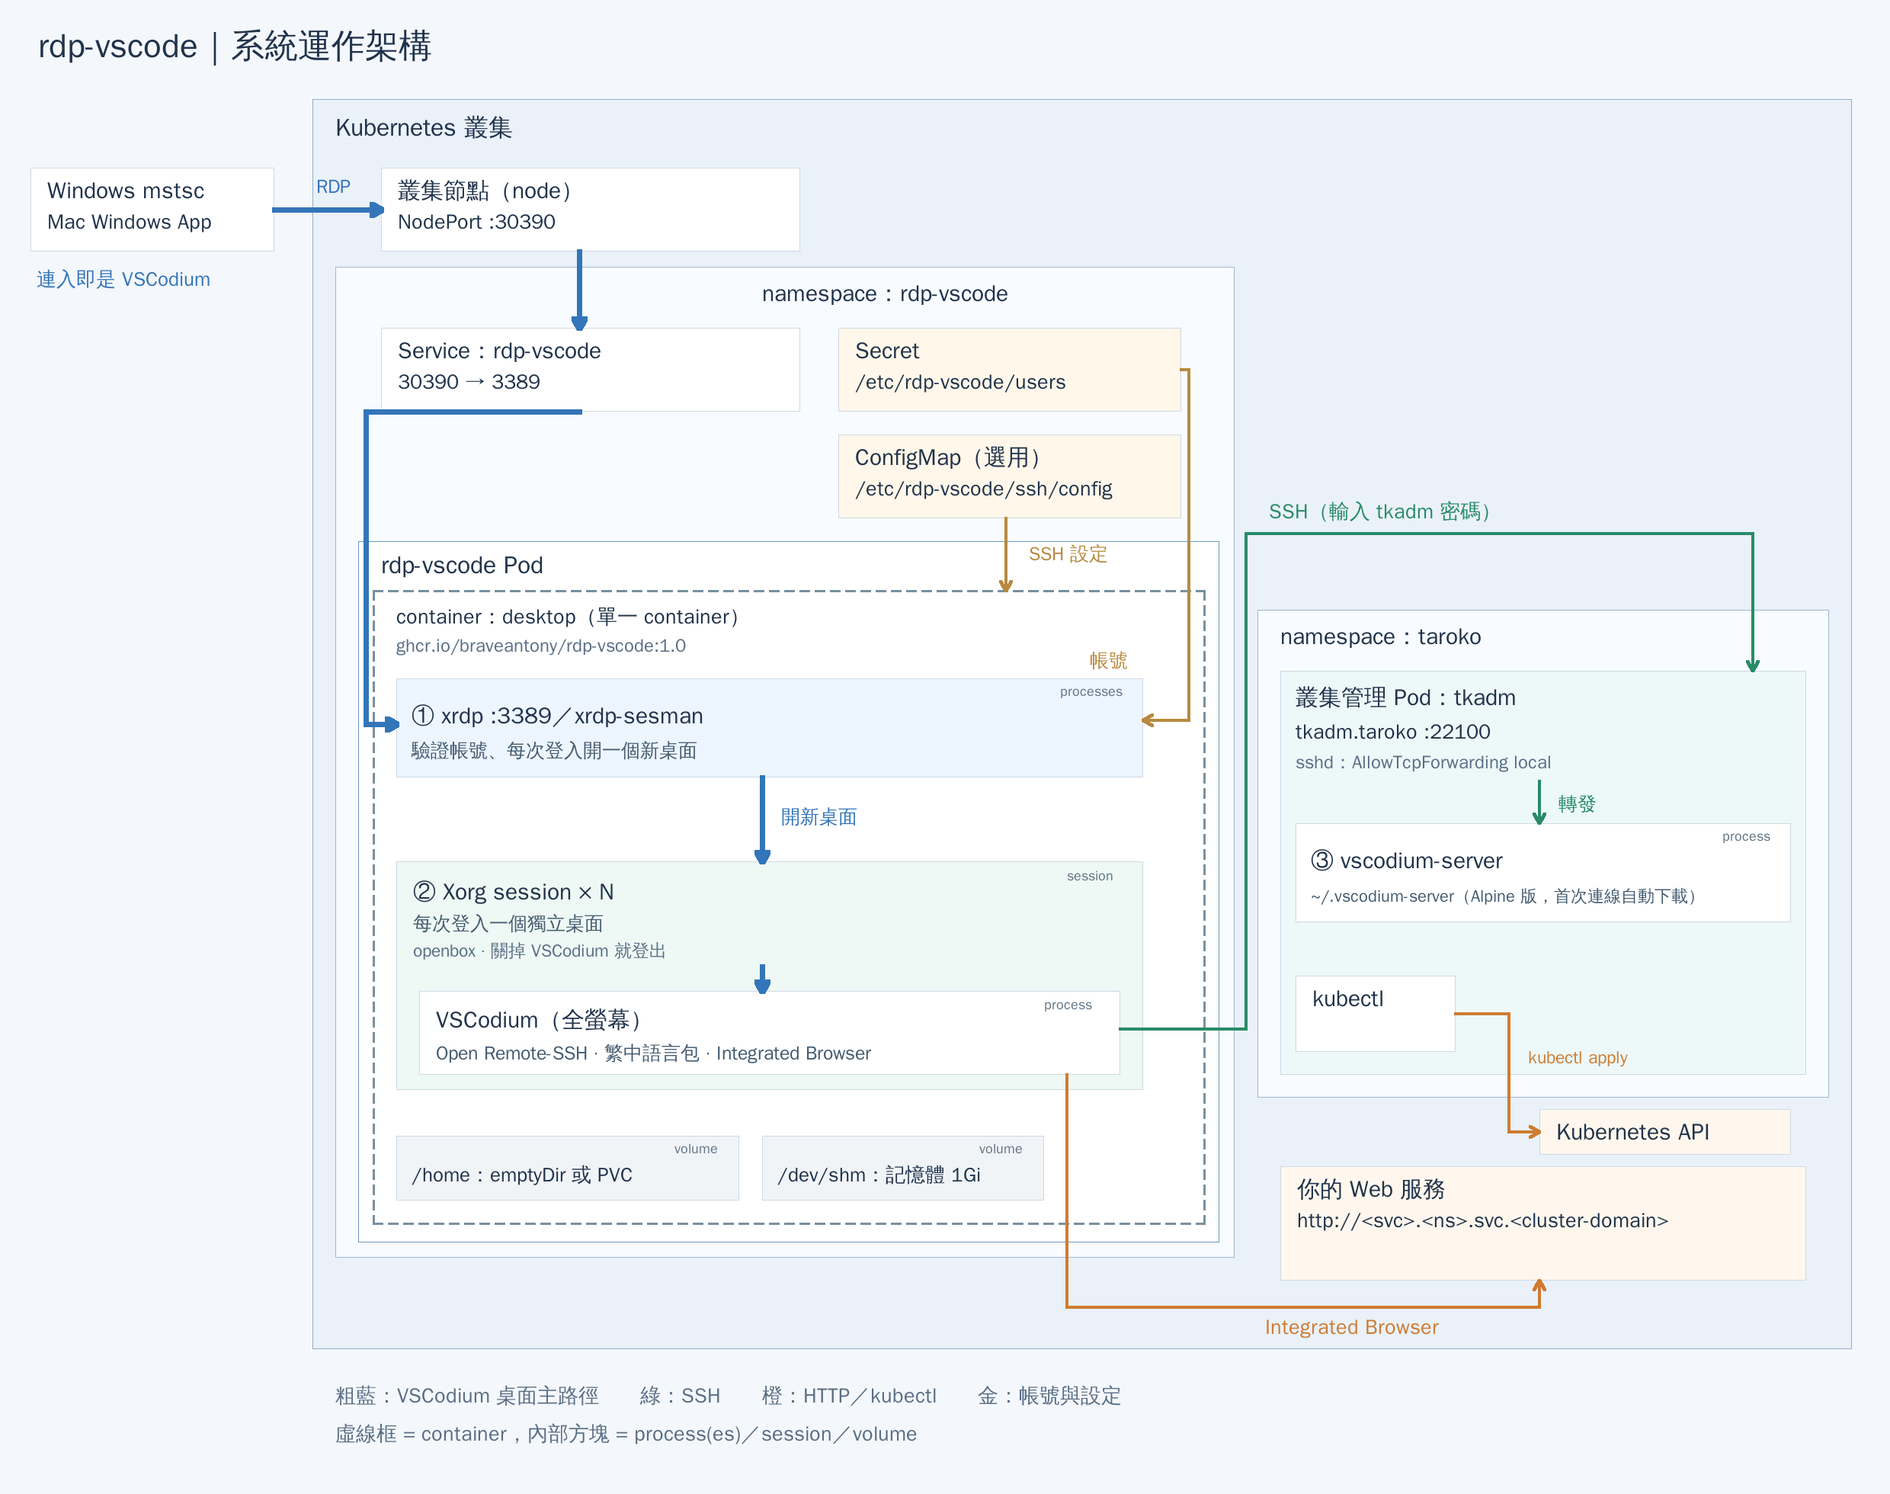
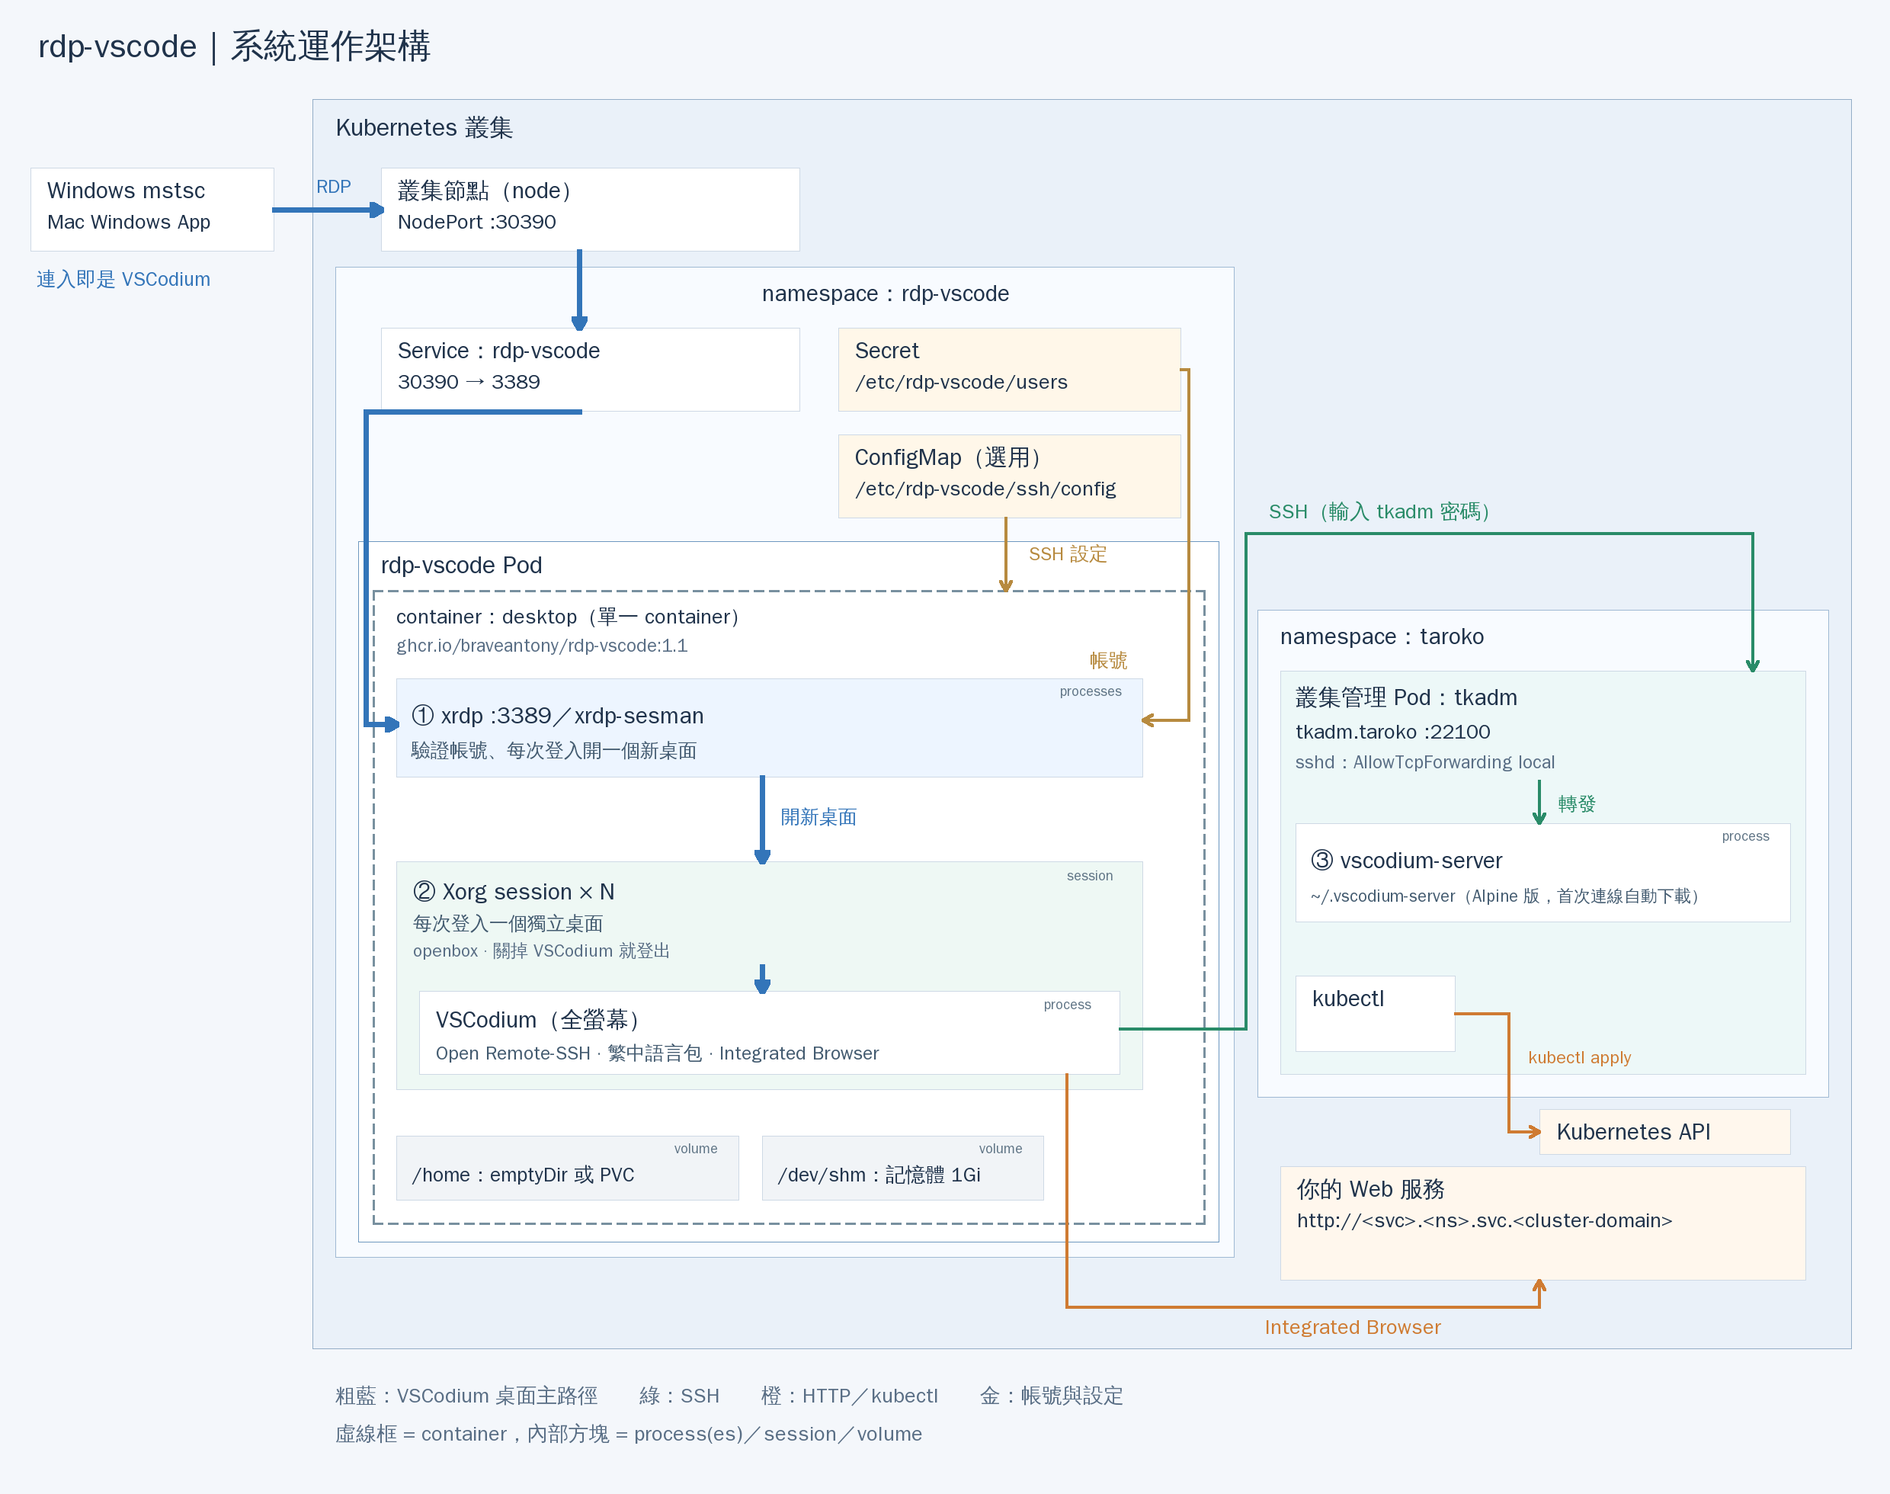
release: 1.1
Claude-Session: https://claude.ai/code/session_01RNGroMzGBHb3J8CJpfyLLi

diff --git a/docs/architecture/render.py b/docs/architecture/render.py
@@ -108,7 +108,7 @@ rect(470,710,1130,920,'#ffffff','#6e98bf')
 text(500,752,'rdp-vscode Pod',32)
 dashed_container(490,775,1090,830)
 text(520,818,'container：desktop（單一 container）',27)
-text(520,855,'ghcr.io/braveantony/rdp-vscode:1.0',24,'#596e85')
+text(520,855,'ghcr.io/braveantony/rdp-vscode:1.1',24,'#596e85')
 rect(1650,800,750,640,'#f8fbff','#9fb9d3')
 text(1680,845,'namespace：taroko',30)
 

diff --git a/docs/build-image.md b/docs/build-image.md
@@ -1,6 +1,6 @@
 # rdp-vscode 映像檔建置手冊
 
-本文件從原始碼做出 `ghcr.io/braveantony/rdp-vscode:1.0` 和 `:1.0-firefox` 兩個 tag，跑過測試，載入 tk8s 的節點並部署，最後推到 ghcr.io。**由上到下依序複製每個指令區塊貼到終端機執行。** 需要在 repo 目錄執行的區塊，開頭都會 `cd ~/rdp-vscode`，中途換終端機也能接著貼。
+本文件從原始碼做出 `ghcr.io/braveantony/rdp-vscode:1.1` 和 `:1.1-firefox` 兩個 tag，跑過測試，載入 tk8s 的節點並部署，最後推到 ghcr.io。**由上到下依序複製每個指令區塊貼到終端機執行。** 需要在 repo 目錄執行的區塊，開頭都會 `cd ~/rdp-vscode`，中途換終端機也能接著貼。
 
 ## 這個映像檔做什麼
 
@@ -61,8 +61,8 @@ rdp-vscode/
 
 ```bash
 cd ~/rdp-vscode
-podman build -t ghcr.io/braveantony/rdp-vscode:1.0 images/rdp-vscode
-podman build --build-arg WITH_FIREFOX=1 -t ghcr.io/braveantony/rdp-vscode:1.0-firefox images/rdp-vscode
+podman build -t ghcr.io/braveantony/rdp-vscode:1.1 images/rdp-vscode
+podman build --build-arg WITH_FIREFOX=1 -t ghcr.io/braveantony/rdp-vscode:1.1-firefox images/rdp-vscode
 podman image ls ghcr.io/braveantony/rdp-vscode
 ```
 
@@ -77,11 +77,11 @@ cd ~/rdp-vscode
 bash test/unit/ssh-config.test.sh
 bash test/unit/font-config.test.sh
 bash test/unit/install.test.sh
-bash test/unit/startwm.test.sh ghcr.io/braveantony/rdp-vscode:1.0
-bash test/image/smoke.test.sh ghcr.io/braveantony/rdp-vscode:1.0
-bash test/image/smoke.test.sh ghcr.io/braveantony/rdp-vscode:1.0-firefox --firefox
-bash test/unit/accounts.test.sh ghcr.io/braveantony/rdp-vscode:1.0
-bash test/unit/languagepacks.test.sh ghcr.io/braveantony/rdp-vscode:1.0
+bash test/unit/startwm.test.sh ghcr.io/braveantony/rdp-vscode:1.1
+bash test/image/smoke.test.sh ghcr.io/braveantony/rdp-vscode:1.1
+bash test/image/smoke.test.sh ghcr.io/braveantony/rdp-vscode:1.1-firefox --firefox
+bash test/unit/accounts.test.sh ghcr.io/braveantony/rdp-vscode:1.1
+bash test/unit/languagepacks.test.sh ghcr.io/braveantony/rdp-vscode:1.1
 ```
 
 每個測試最後一行都應該是 `N passed, 0 failed`。
@@ -90,7 +90,7 @@ bash test/unit/languagepacks.test.sh ghcr.io/braveantony/rdp-vscode:1.0
 
 ```bash
 cd ~/rdp-vscode
-bash test/image/session.test.sh ghcr.io/braveantony/rdp-vscode:1.0
+bash test/image/session.test.sh ghcr.io/braveantony/rdp-vscode:1.1
 bash test/deploy/render.test.sh
 ```
 
@@ -102,7 +102,7 @@ tk8s 的節點是 podman container，映像檔要直接載入節點的 container
 
 ```bash
 cd ~/rdp-vscode
-podman save -o /tmp/rdp-vscode.tar ghcr.io/braveantony/rdp-vscode:1.0
+podman save -o /tmp/rdp-vscode.tar ghcr.io/braveantony/rdp-vscode:1.1
 for n in tk8s-control-plane-1 tk8s-worker-1 tk8s-worker-2; do
   sudo podman --root /var/lib/containers/storage/volumes/$n-var/_data/lib/containers/storage \
     --runroot /run/rdp-vscode-load-$n --storage-driver overlay load -i /tmp/rdp-vscode.tar
@@ -110,7 +110,7 @@ done
 rm -f /tmp/rdp-vscode.tar
 ```
 
-要用 `-firefox` 版時，把上面的 `:1.0` 換成 `:1.0-firefox`，並在 overlay 的 `kustomization.yaml` 加上 `images:` 區塊換成 `newTag: 1.0-firefox`（見[安裝手冊](install.md#其他設定)）。
+要用 `-firefox` 版時，把上面的 `:1.1` 換成 `:1.1-firefox`，並在 overlay 的 `kustomization.yaml` 加上 `images:` 區塊換成 `newTag: 1.1-firefox`（見[安裝手冊](install.md#其他設定)）。
 
 ## Step 5：tk8s 的前置設定
 
@@ -162,8 +162,8 @@ kubectl -n kube-system get configmap coredns -o jsonpath='{.data.Corefile}' | gr
 
 ```bash
 podman login ghcr.io -u braveantony      # 密碼貼上 PAT
-podman push ghcr.io/braveantony/rdp-vscode:1.0
-podman push ghcr.io/braveantony/rdp-vscode:1.0-firefox
+podman push ghcr.io/braveantony/rdp-vscode:1.1
+podman push ghcr.io/braveantony/rdp-vscode:1.1-firefox
 ```
 
 Dockerfile 裡的 `org.opencontainers.image.source` label 會讓 ghcr.io 自動把 package 連到 repo。第一次推送後，到 GitHub 的 **Packages → rdp-vscode → Package settings → Change visibility**，設為 Public，別人才拉得到。
@@ -210,7 +210,7 @@ ARG ZH_HANT_VERSION=1.131.0
    curl -fsSL https://open-vsx.org/api/MS-CEINTL/vscode-language-pack-zh-hant | python3 -c 'import json,sys; d=json.load(sys.stdin); print(d["version"], d["engines"])'
    ```
 
-3. 修改 `images/rdp-vscode/Dockerfile` 的 `ARG`，從 Step 2 重做一次，並跑完 Step 3 的所有測試和完整驗收。新 tag 用新的版本號：把 Step 2～4、7 指令裡的 `:1.0` 和 `:1.0-firefox` 分別換成例如 `:1.1` 和 `:1.1-firefox`，並同步修改 `VERSION` 和 `manifests/base/deployment.yaml` 的 `image:`。注意：Step 3 測的是指定的發佈 tag；完整驗收則是從目前的原始碼另外建置 `localhost/rdp-vscode:dev` 來測。
+3. 修改 `images/rdp-vscode/Dockerfile` 的 `ARG`，從 Step 2 重做一次，並跑完 Step 3 的所有測試和完整驗收。新 tag 用新的版本號：把 Step 2～4、7 指令裡的 `:1.1` 和 `:1.1-firefox` 分別換成例如 `:1.2` 和 `:1.2-firefox`，並同步修改 `VERSION` 和 `manifests/base/deployment.yaml` 的 `image:`。注意：Step 3 測的是指定的發佈 tag；完整驗收則是從目前的原始碼另外建置 `localhost/rdp-vscode:dev` 來測。
 
 使用者的 home 裡如果有舊版的預裝擴充功能，下次登入時會自動換成映像檔裡的版本；自己裝的擴充功能不會被動到。
 

diff --git a/docs/install.md b/docs/install.md
@@ -1,6 +1,6 @@
 # rdp-vscode 安裝手冊
 
-適用映像檔：`ghcr.io/braveantony/rdp-vscode:1.0`。`-firefox` 版的安裝方式相同，只有換映像檔的方法依安裝方式而不同，見各節。先決條件見 [README](../README.md#先決條件)。
+適用映像檔：`ghcr.io/braveantony/rdp-vscode:1.1`。`-firefox` 版的安裝方式相同，只有換映像檔的方法依安裝方式而不同，見各節。先決條件見 [README](../README.md#先決條件)。
 
 ## 選擇安裝方式
 
@@ -28,14 +28,14 @@ curl -fsSL https://raw.githubusercontent.com/braveantony/rdp-vscode/main/install
 平常不需要設定任何變數。要改裝 `-firefox` 版時，用 `RDP_VSCODE_IMAGE`：
 
 ```bash
-curl -fsSL https://raw.githubusercontent.com/braveantony/rdp-vscode/main/install.sh | RDP_VSCODE_IMAGE=ghcr.io/braveantony/rdp-vscode:1.0-firefox bash
+curl -fsSL https://raw.githubusercontent.com/braveantony/rdp-vscode/main/install.sh | RDP_VSCODE_IMAGE=ghcr.io/braveantony/rdp-vscode:1.1-firefox bash
 ```
 
 `install.sh` 讀取的變數：
 
 | 變數 | 說明 |
 |---|---|
-| `RDP_VSCODE_IMAGE` | 改用其他映像檔，例如 `ghcr.io/braveantony/rdp-vscode:1.0-firefox` 或私有 registry 上的映像檔 |
+| `RDP_VSCODE_IMAGE` | 改用其他映像檔，例如 `ghcr.io/braveantony/rdp-vscode:1.1-firefox` 或私有 registry 上的映像檔 |
 | `RDP_VSCODE_REF` | 下載 `manifests/` 時用的 branch 或 tag，決定部署哪個版本的設定和映像檔；預設 `main`。主要給測試用 |
 | `RDP_VSCODE_RAW` | `manifests/` 的下載位置，可以是網址或 `file://` 路徑；預設是 GitHub 上 `RDP_VSCODE_REF` 指定的版本，設定後 `RDP_VSCODE_REF` 就沒有作用。主要給測試用 |
 
@@ -93,7 +93,7 @@ StorageClass 是決定 PVC 用哪種儲存的叢集設定。PVC 沒有指定 `st
   ```yaml
   images:
   - name: ghcr.io/braveantony/rdp-vscode
-    newTag: 1.0-firefox
+    newTag: 1.1-firefox
   ```
 
 - **改環境變數**：修改 `manifests/base/deployment.yaml` 的 `env`，再執行一次 `kubectl apply -k manifests/stateless`（或 `manifests/stateful`）。變數說明見 [README 的「環境變數」](../README.md#環境變數)。
@@ -112,7 +112,7 @@ StorageClass 是決定 PVC 用哪種儲存的叢集設定。PVC 沒有指定 `st
 ```bash
 podman run -d --name rdp-vscode -p 13390:3389 --shm-size 1g \
   -e RDP_PASSWORD=bigred -e SSH_HOST=<SSH 主機> -e SSH_PORT=22 -e SSH_USER=<SSH 帳號> \
-  ghcr.io/braveantony/rdp-vscode:1.0
+  ghcr.io/braveantony/rdp-vscode:1.1
 ```
 
 用遠端桌面連到 `<主機 IP>:13390`。`<主機 IP>` 是執行 podman 的那台主機的 IP；在同一台主機上連可以用 `localhost:13390`。帳號 `bigred`、密碼 `bigred`。
@@ -123,7 +123,7 @@ podman run -d --name rdp-vscode -p 13390:3389 --shm-size 1g \
 - **多個帳號**：用帳號清單取代 `RDP_PASSWORD`。拿掉 `-e RDP_PASSWORD=bigred`，改在映像檔名稱之前加上 `-v ./users.txt:/etc/rdp-vscode/users:ro,Z`（`ro` 表示唯讀，`Z` 是給 SELinux 系統用的標記，沒有 SELinux 也不影響）。`users.txt` 的格式和[帳號清單](#帳號清單)相同。
 - **不自動連線**：把 `-e SSH_HOST=…`、`-e SSH_PORT=…`、`-e SSH_USER=…` 都換成 `-e SSH_HOST_ALIAS=`（空字串），登入後只開啟 container 裡的 VSCodium，不會連到任何 SSH 主機。
 - **SSH 主機上的家目錄不是 `/home/<SSH 帳號>` 時**（例如 root），再加上 `-e SSH_REMOTE_FOLDER=<路徑>`。
-- **改裝 `-firefox` 版**：把最後的 `:1.0` 換成 `:1.0-firefox`。
+- **改裝 `-firefox` 版**：把最後的 `:1.1` 換成 `:1.1-firefox`。
 - 檔案和設定都在 container 裡，刪掉 container（`podman rm -f rdp-vscode`）就會消失。
 - 其他環境變數見 [README 的「環境變數」](../README.md#環境變數)。
 

diff --git a/docs/user-guide.md b/docs/user-guide.md
@@ -1,6 +1,6 @@
 # VSCodium 遠端桌面使用手冊
 
-適用映像檔：`ghcr.io/braveantony/rdp-vscode:1.0`（`:1.0-firefox` 另見第 5 節）。安裝方式見 [README](../README.md#快速開始)。
+適用映像檔：`ghcr.io/braveantony/rdp-vscode:1.1`（`:1.1-firefox` 另見第 5 節）。安裝方式見 [README](../README.md#快速開始)。
 
 用 Windows 內建的「遠端桌面連線」登入後，畫面上只有一個全螢幕的 VSCodium。它會自動以 SSH 連到叢集的管理 Pod `tkadm`，你在 VSCodium 裡開的檔案和終端機都在 `tkadm` 上，可以直接用 `kubectl` 管理叢集。
 
@@ -45,7 +45,7 @@
 
 網址可以只寫 `http://<service 名稱>.<namespace>`；完整網域名稱（FQDN）請問管理者。
 
-> 在終端機裡按住 `Ctrl` 點網址時，VSCodium 會問要不要開啟外部網站，但 1.0 版的映像檔裡沒有其他瀏覽器，所以按了也沒有反應。請照上面的步驟用 Integrated Browser 開。`-firefox` 版見第 5 節。
+> 在終端機裡按住 `Ctrl` 點網址時，VSCodium 會問要不要開啟外部網站，但 預設版的映像檔裡沒有其他瀏覽器，所以按了也沒有反應。請照上面的步驟用 Integrated Browser 開。`-firefox` 版見第 5 節。
 
 測完記得刪除：
 
@@ -64,7 +64,7 @@ kubectl -n default delete deploy/web svc/web
 - **輸入中文**：遠端桌面裡沒有中文輸入法。在自己的電腦（例如記事本）打好，複製後在 VSCodium 按 `Ctrl+V` 貼上。
 - **YAML 補全**：`tkadm` 第一次連線時會自動安裝 YAML 擴充功能（extension）。編輯 `.yaml` 檔時，按 `Ctrl+Space` 會出現 Kubernetes 欄位的建議。
 
-## 5. `-firefox` 版（`:1.0-firefox`）
+## 5. `-firefox` 版（`:1.1-firefox`）
 
 管理者部署的是 `-firefox` 版時：
 

diff --git a/README.en.md b/README.en.md
@@ -90,7 +90,7 @@ Press `Ctrl+Shift+P`, run "Browser: Open Integrated Browser" (or click the globe
 
 Use the short name `http://<service>.<namespace>` or the full domain name (see the [user guide](docs/user-guide.md), Traditional Chinese). Add `:<port>` when the service does not listen on 80.
 
-> `Ctrl`-clicking a URL in the terminal does not open the Integrated Browser, and the 1.0 image has no other browser, so nothing happens. The `-firefox` image opens such links in Firefox.
+> `Ctrl`-clicking a URL in the terminal does not open the Integrated Browser, and the default image has no other browser, so nothing happens. The `-firefox` image opens such links in Firefox.
 
 ### 4. Good to know
 
@@ -103,9 +103,9 @@ The [user guide](docs/user-guide.md) (Traditional Chinese) has the full instruct
 
 ## Images
 
-| | 1.0 | 1.0-firefox |
+| | 1.1 | 1.1-firefox |
 |---|---|---|
-| Image | `ghcr.io/braveantony/rdp-vscode:1.0` | `ghcr.io/braveantony/rdp-vscode:1.0-firefox` |
+| Image | `ghcr.io/braveantony/rdp-vscode:1.1` | `ghcr.io/braveantony/rdp-vscode:1.1-firefox` |
 | VSCodium 1.143.17183, Open Remote-SSH 0.5.1, Traditional Chinese pack 1.131.0 | ✅ | ✅ |
 | Auto-connect to tkadm, YAML extension installed on tkadm | ✅ | ✅ |
 | Open cluster websites in the Integrated Browser | ✅ | ✅ |

diff --git a/README.md b/README.md
@@ -90,7 +90,7 @@ kubectl -n default expose deploy web --port 80
 
 網址可以用短名稱 `http://<service>.<namespace>`，也可以用完整網域名稱（見[使用手冊](docs/user-guide.md)）。服務的埠號不是 80 時，在網址後加上 `:<埠號>`。
 
-> 在終端機裡按住 `Ctrl` 點網址時，不會用 Integrated Browser 開啟；1.0 版的映像檔裡沒有其他瀏覽器，所以不會有反應。`-firefox` 版則會用 Firefox 開啟。
+> 在終端機裡按住 `Ctrl` 點網址時，不會用 Integrated Browser 開啟；預設版的映像檔裡沒有其他瀏覽器，所以不會有反應。`-firefox` 版則會用 Firefox 開啟。
 
 ### 4. 使用時要知道的事
 
@@ -103,9 +103,9 @@ kubectl -n default expose deploy web --port 80
 
 ## 版本比較
 
-| | 1.0 | 1.0-firefox |
+| | 1.1 | 1.1-firefox |
 |---|---|---|
-| 映像檔 | `ghcr.io/braveantony/rdp-vscode:1.0` | `ghcr.io/braveantony/rdp-vscode:1.0-firefox` |
+| 映像檔 | `ghcr.io/braveantony/rdp-vscode:1.1` | `ghcr.io/braveantony/rdp-vscode:1.1-firefox` |
 | VSCodium 1.143.17183、Open Remote-SSH 0.5.1、繁中語言包 1.131.0 | ✅ | ✅ |
 | 自動連線 tkadm、遠端自動安裝 YAML 擴充功能 | ✅ | ✅ |
 | 用 Integrated Browser 開叢集內的網站 | ✅ | ✅ |

diff --git a/docs/design/03-deployment.md b/docs/design/03-deployment.md
@@ -73,8 +73,8 @@ kubectl apply -k manifests/stateless   # 或 manifests/stateful
 
 | Tag | 內容 |
 |---|---|
-| `ghcr.io/braveantony/rdp-vscode:1.0` | 預設版本，用內建的 Integrated Browser，約 1.3GB |
-| `ghcr.io/braveantony/rdp-vscode:1.0-firefox` | 多了 Firefox ESR，約 1.6GB（多約 310MB） |
+| `ghcr.io/braveantony/rdp-vscode:1.1` | 預設版本，用內建的 Integrated Browser，約 1.3GB |
+| `ghcr.io/braveantony/rdp-vscode:1.1-firefox` | 多了 Firefox ESR，約 1.6GB（多約 310MB） |
 
 manifest 預設使用 `imagePullPolicy: IfNotPresent`。e2e 測試時，會用 kustomize 的 `images:` 換成本機 build 的 `localhost/rdp-vscode:dev`，再用 rdp-firefox 的方式載入 tk8s 的 worker 節點。
 

diff --git a/test/e2e/manual-checklist.md b/test/e2e/manual-checklist.md
@@ -45,7 +45,7 @@ RDP 連到 `<節點 IP>:30390`，在 xrdp 登入畫面輸入 `bigred` / `bigred`
 
 ## AC9：`-firefox` 版本
 
-用 `localhost/rdp-vscode:dev-firefox`（或 `ghcr.io/braveantony/rdp-vscode:1.0-firefox`）部署：
+用 `localhost/rdp-vscode:dev-firefox`（或 `ghcr.io/braveantony/rdp-vscode:1.1-firefox`）部署：
 
 - [ ] 在 VSCodium terminal 執行 `echo http://web.default.svc.tk8s.k8s`，用 `Ctrl+` 點擊網址，確認對話框後會開啟 Firefox，並顯示 nginx 歡迎頁
 - [ ] `Alt+Tab` 可以在 VSCodium 和 Firefox 之間切換

diff --git a/docs/design/01-decisions.md b/docs/design/01-decisions.md
@@ -21,7 +21,7 @@
 
 ### D14 名稱與授權
 - GitHub repo：`braveantony/rdp-vscode`
-- Image：`ghcr.io/braveantony/rdp-vscode:1.0`（Firefox 版本是 `:1.0-firefox`）
+- Image：`ghcr.io/braveantony/rdp-vscode:1.1`（Firefox 版本是 `:1.1-firefox`）
 - 授權：**Apache-2.0**。它跟 VSCodium（MIT）、xrdp（Apache-2.0）相容，而且附帶專利授權。沒有 LICENSE 檔的 repo，法律上等於「保留所有權利」，別人不能合法使用
 
 ### D15 Build 方式：podman 手動 build、手動 push

diff --git a/docs/architecture.md b/docs/architecture.md
@@ -1,6 +1,6 @@
 # rdp-vscode 系統運作架構
 
-適用映像檔：`ghcr.io/braveantony/rdp-vscode:1.0`
+適用映像檔：`ghcr.io/braveantony/rdp-vscode:1.1`
 
 ![rdp-vscode 系統運作架構](architecture/rdp-vscode-architecture.png)
 
